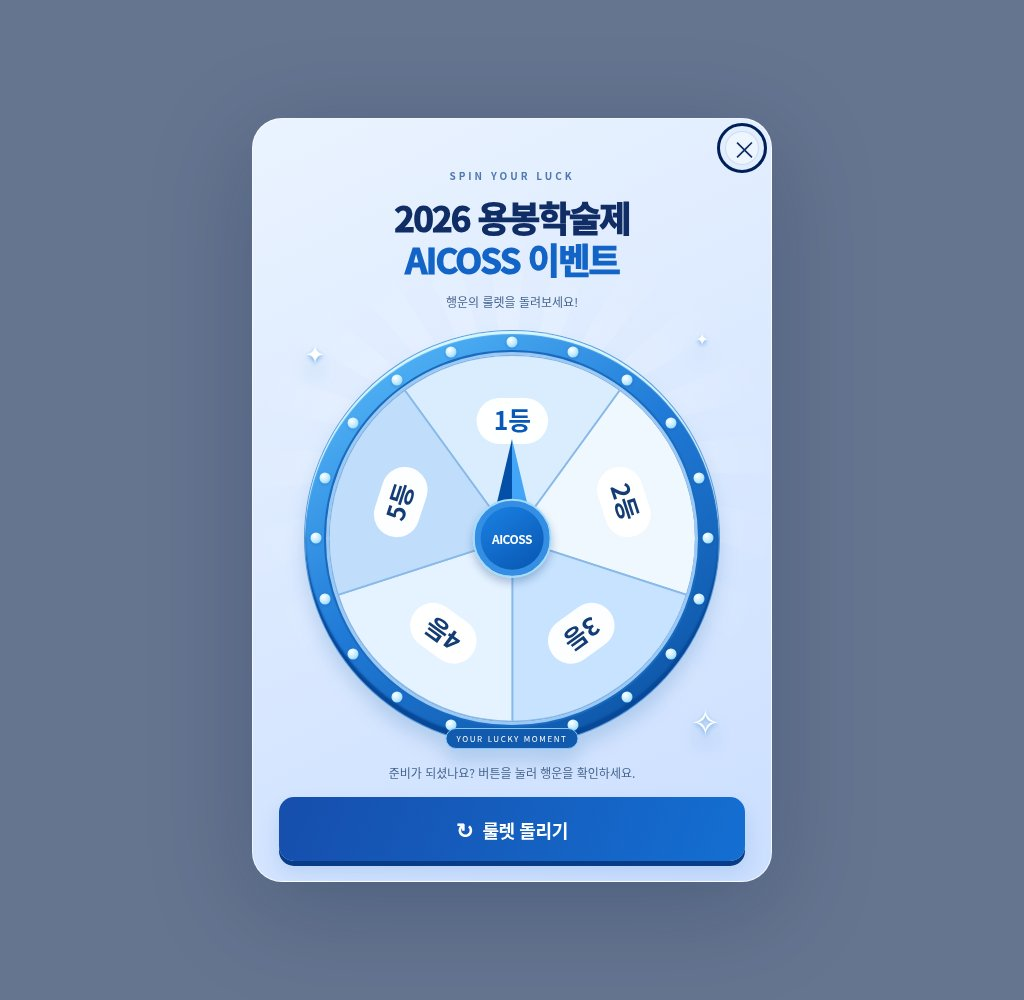
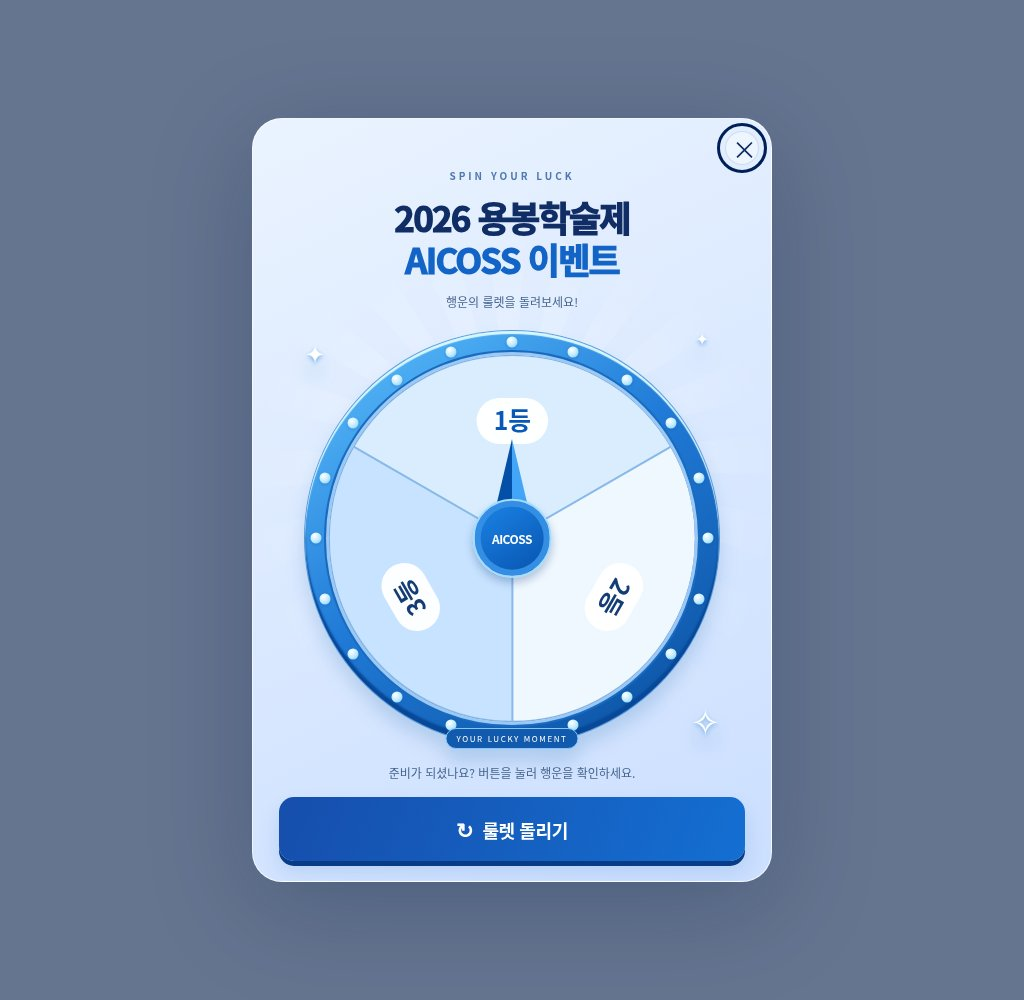
Reduce roulette to three ranks with 5, 10 and 85 percent probabilities

Changed region(s): [[0.3125, 0.372, 0.6875, 0.744], [0.625, 0.434, 0.6562, 0.465]]

diff --git a/prize-draw/prize-draw.html b/prize-draw/prize-draw.html
@@ -7,7 +7,7 @@ html,body{height:100%;width:100%;overflow:hidden}.backdrop{height:100vh;height:1
 @media(max-width:420px){.card{padding:14px 16px 17px}.heading{margin:22px 0 4px}.heading h1{font-size:clamp(23px,7.2vw,28px);margin:8px 0}.eyebrow{font-size:9px;letter-spacing:2.3px}.wheel-stage{margin-top:14px;margin-bottom:13px}.status{font-size:11px;margin:6px 0 10px}.spin{padding:13px;font-size:16px}.odds{font-size:9px;margin-top:12px}.result{padding:12px 10px 10px;margin-top:12px}.rank{font-size:25px}.prize{font-size:14px}.receipt{margin-top:6px;font-size:9px}.done{margin-top:6px}.badge{font-size:7px}}
 @media(max-height:500px) and (min-width:540px){.card{width:min(100%,850px);display:grid;grid-template-columns:minmax(180px,.95fr) 1fr;gap:7px 18px;padding:16px 25px}.top{display:block}.heading{grid-column:2;margin:9px 0 0}.heading .eyebrow{display:none}.heading h1{font-size:23px;margin:0 0 4px}.intro{font-size:10px}.wheel-stage{grid-column:1;grid-row:1 / span 5;width:min(100%,calc(100dvh - 58px));margin:auto}.status{grid-column:2;margin:0;font-size:10px}.spin{grid-column:2;padding:10px;font-size:14px}.result{grid-column:2;padding:8px;margin:0}.rank{font-size:22px}.prize{font-size:12px}.receipt{font-size:8px;margin-top:3px}.done{font-size:10px;margin-top:3px}.odds{grid-column:2;margin:0;font-size:9px}}
 .retry{display:block;margin:0 auto 12px;padding:10px 20px;border:1px solid #7ba5d9;border-radius:10px;background:#ffffffb0;color:#164a8c;font-weight:700}.retry[hidden]{display:none}</style></head><body>
-<div class="backdrop"><main class="card" role="dialog" aria-modal="true" aria-labelledby="title"><div class="rays"></div><header class="top"><button class="close" aria-label="팝업 닫기">×</button></header><div class="heading"><span class="eyebrow">SPIN YOUR LUCK</span><h1 id="title"><span>2026 용봉학술제</span> <span style="display:block">AICOSS 이벤트</span></h1><p class="intro">행운의 룰렛을 돌려보세요!</p></div><div class="wheel-stage"><span class="star a" aria-hidden="true">✦</span><span class="star b" aria-hidden="true">✧</span><span class="star c" aria-hidden="true">✦</span><div class="rim"><div class="wheel-inner"><svg id="wheel" class="rotor" viewBox="0 0 400 400" role="img" aria-label="1등, 2등, 3등, 4등, 5등으로 동일하게 5분할된 원형 룰렛"></svg></div></div><div class="bulbs" aria-hidden="true"></div><div class="needle" aria-hidden="true"></div><div class="hub" aria-hidden="true">AICOSS</div><div class="badge" aria-hidden="true">YOUR LUCKY MOMENT</div></div><div class="status" id="statusText" role="status" aria-live="polite">이벤트 정보를 확인하고 있어요…</div><button id="retryButton" class="retry" hidden>다시 확인</button><button id="spinButton" class="spin" disabled><span class="icon" aria-hidden="true">↻</span><span id="buttonText">준비 중…</span></button><section id="result" class="result" hidden aria-live="polite"><div class="caption" id="resultCaption">나의 당첨 등수는</div><div id="rank" class="rank"></div><div id="prize" class="prize"></div><button class="done">확인했어요</button></section><canvas class="confetti" aria-hidden="true"></canvas></main></div>
+<div class="backdrop"><main class="card" role="dialog" aria-modal="true" aria-labelledby="title"><div class="rays"></div><header class="top"><button class="close" aria-label="팝업 닫기">×</button></header><div class="heading"><span class="eyebrow">SPIN YOUR LUCK</span><h1 id="title"><span>2026 용봉학술제</span> <span style="display:block">AICOSS 이벤트</span></h1><p class="intro">행운의 룰렛을 돌려보세요!</p></div><div class="wheel-stage"><span class="star a" aria-hidden="true">✦</span><span class="star b" aria-hidden="true">✧</span><span class="star c" aria-hidden="true">✦</span><div class="rim"><div class="wheel-inner"><svg id="wheel" class="rotor" viewBox="0 0 400 400" role="img" aria-label="1등, 2등, 3등으로 동일하게 3분할된 원형 룰렛"></svg></div></div><div class="bulbs" aria-hidden="true"></div><div class="needle" aria-hidden="true"></div><div class="hub" aria-hidden="true">AICOSS</div><div class="badge" aria-hidden="true">YOUR LUCKY MOMENT</div></div><div class="status" id="statusText" role="status" aria-live="polite">이벤트 정보를 확인하고 있어요…</div><button id="retryButton" class="retry" hidden>다시 확인</button><button id="spinButton" class="spin" disabled><span class="icon" aria-hidden="true">↻</span><span id="buttonText">준비 중…</span></button><section id="result" class="result" hidden aria-live="polite"><div class="caption" id="resultCaption">나의 당첨 등수는</div><div id="rank" class="rank"></div><div id="prize" class="prize"></div><button class="done">확인했어요</button></section><canvas class="confetti" aria-hidden="true"></canvas></main></div>
 <script>
 (function(){'use strict';
 var wheel=document.getElementById('wheel'),button=document.getElementById('spinButton'),buttonText=document.getElementById('buttonText'),card=document.querySelector('.card'),status=document.getElementById('statusText');
@@ -19,20 +19,20 @@ Array.from(card.children).forEach(function(el){if(el===stage||el.hidden)return;v
 var ss=getComputedStyle(stage);remaining-=(parseFloat(ss.marginTop)||0)+(parseFloat(ss.marginBottom)||0);var width=card.clientWidth-parseFloat(cs.paddingLeft)-parseFloat(cs.paddingRight);
 stage.style.width=Math.max(132,Math.min(414,width,remaining))+'px';}
 window.addEventListener('resize',fitLayout);if(window.visualViewport)window.visualViewport.addEventListener('resize',fitLayout);requestAnimationFrame(fitLayout);
-var ns='http://www.w3.org/2000/svg',fills=['#d9edff','#eff7ff','#c7e3ff','#e5f2ff','#c0ddfb'];
+var ns='http://www.w3.org/2000/svg',fills=['#d9edff','#eff7ff','#c7e3ff'];
 function svg(tag,attrs,parent){var el=document.createElementNS(ns,tag);Object.keys(attrs).forEach(function(k){el.setAttribute(k,attrs[k]);});(parent||wheel).appendChild(el);return el;}
 function point(deg,r){var a=deg*Math.PI/180;return [200+Math.cos(a)*r,200+Math.sin(a)*r];}
-for(var i=0;i<5;i++){var a=-126+i*72,b=a+72,p=point(a,200),q=point(b,200);svg('path',{d:'M200 200 L'+p[0]+' '+p[1]+' A200 200 0 0 1 '+q[0]+' '+q[1]+' Z',fill:fills[i],stroke:'#89b9e9','stroke-width':2,'data-rank':i+1});var center=-90+i*72,pos=point(center,128),g=svg('g',{transform:'translate('+pos[0]+','+pos[1]+') rotate('+(center+90)+')'});svg('rect',{x:-39,y:-25,width:78,height:50,rx:25,fill:'#fff','fill-opacity':.97},g);var text=svg('text',{x:0,y:2,'text-anchor':'middle','dominant-baseline':'middle','font-size':27,'font-weight':900,fill:i===0?'#0758b9':'#143d76','font-family':'sans-serif'},g);text.textContent=(i+1)+'등';}
+for(var i=0;i<3;i++){var a=-150+i*120,b=a+120,p=point(a,200),q=point(b,200);svg('path',{d:'M200 200 L'+p[0]+' '+p[1]+' A200 200 0 0 1 '+q[0]+' '+q[1]+' Z',fill:fills[i],stroke:'#89b9e9','stroke-width':2,'data-rank':i+1});var center=-90+i*120,pos=point(center,128),g=svg('g',{transform:'translate('+pos[0]+','+pos[1]+') rotate('+(center+90)+')'});svg('rect',{x:-39,y:-25,width:78,height:50,rx:25,fill:'#fff','fill-opacity':.97},g);var text=svg('text',{x:0,y:2,'text-anchor':'middle','dominant-baseline':'middle','font-size':27,'font-weight':900,fill:i===0?'#0758b9':'#143d76','font-family':'sans-serif'},g);text.textContent=(i+1)+'등';}
 for(var j=0;j<20;j++){var angle=j*18*Math.PI/180,bulb=document.createElement('i');bulb.className='bulb';bulb.style.left=(50+47.4*Math.sin(angle))+'%';bulb.style.top=(50-47.4*Math.cos(angle))+'%';document.querySelector('.bulbs').appendChild(bulb);}
 function send(type){window.parent.postMessage({type:type},'*');}
 function close(){clearTimeout(timer);clearTimeout(fallback);cancelAnimationFrame(confettiFrame);state='closed';send('close');if(window.parent===window)document.querySelector('.backdrop').hidden=true;}
 document.querySelector('.close').onclick=close;document.querySelector('.done').onclick=close;document.querySelector('.close').focus();
 document.addEventListener('keydown',function(e){if(e.key==='Escape')close();if(e.key==='Tab'){var controls=[document.querySelector('.close')];if(!button.disabled&&button.offsetParent)controls.push(button);if(!document.getElementById('retryButton').hidden)controls.push(document.getElementById('retryButton'));if(!document.getElementById('result').hidden)controls.push(document.querySelector('.done'));var first=controls[0],last=controls[controls.length-1];if(e.shiftKey&&document.activeElement===first){e.preventDefault();last.focus();}else if(!e.shiftKey&&document.activeElement===last){e.preventDefault();first.focus();}}});
-function applyRanks(d){if(!Array.isArray(d.ranks)||d.ranks.length!==5||!d.ranks.every(function(r){return r&&typeof r.name==='string';}))return;var texts=wheel.querySelectorAll('text');d.ranks.forEach(function(r,i){texts[i].textContent=r.name;});wheel.setAttribute('aria-label',d.ranks.map(function(r){return r.name;}).join(', ')+' 5분할 룰렛');}
+function applyRanks(d){if(!Array.isArray(d.ranks)||d.ranks.length!==3||!d.ranks.every(function(r){return r&&typeof r.name==='string';}))return;var texts=wheel.querySelectorAll('text');d.ranks.forEach(function(r,i){texts[i].textContent=r.name;});wheel.setAttribute('aria-label',d.ranks.map(function(r){return r.name;}).join(', ')+' 3분할 룰렛');}
 function notice(message){if(state==='closed'||state==='done')return;clearTimeout(timer);clearTimeout(fallback);state='error';card.classList.add('error');status.textContent=message;button.disabled=true;document.getElementById('retryButton').hidden=false;fitLayout();}
 function celebrate(){if(reduced)return;var canvas=document.querySelector('.confetti'),ctx=canvas.getContext('2d'),w=card.clientWidth,h=card.clientHeight,dpr=Math.min(devicePixelRatio||1,2);canvas.width=w*dpr;canvas.height=h*dpr;ctx.scale(dpr,dpr);var colors=['#1672d6','#71c5ff','#fff','#acdfff','#f8d56c'];var bits=Array.from({length:90},function(_,i){return{x:Math.random()*w,y:-20-Math.random()*h*.7,vx:(Math.random()-.5)*1.8,vy:2+Math.random()*3,size:4+Math.random()*5,a:Math.random()*6,c:colors[i%colors.length]};});var start=performance.now(),last=start;function paint(t){if(state==='closed')return;var dt=Math.min(2,(t-last)/16.67);last=t;ctx.clearRect(0,0,w,h);bits.forEach(function(b){b.x+=b.vx*dt;b.y+=b.vy*dt;b.a+=.045*dt;ctx.save();ctx.translate(b.x,b.y);ctx.rotate(b.a);ctx.fillStyle=b.c;ctx.fillRect(-b.size/2,-b.size/2,b.size,b.size*.55);ctx.restore();});if(t-start<4300)confettiFrame=requestAnimationFrame(paint);else ctx.clearRect(0,0,w,h);}confettiFrame=requestAnimationFrame(paint);}
 function complete(d){if(state==='closed')return;clearTimeout(fallback);state='done';card.classList.add('complete');document.getElementById('resultCaption').textContent='나의 당첨 등수는';document.getElementById('rank').textContent=d.rank+' 당첨!';document.getElementById('prize').textContent=d.prize+(d.preview?' · 미리보기':'');document.getElementById('result').hidden=false;fitLayout();status.textContent='축하합니다! 행운의 주인공이 되었어요.';buttonText.textContent='당첨 결과 확인 완료';celebrate();}
-function showResult(d){if(resultData||state==='closed'||state==='error')return;var index=Number(d.ball)-1;if(!Number.isInteger(index)||index<0||index>4){notice('당첨 결과를 확인할 수 없습니다. 창을 닫고 다시 확인해주세요.');return;}if(!requested)return;applyRanks(d);resultData=d;clearTimeout(fallback);var target=(360-index*72)%360;if(reduced){wheel.style.transition='none';wheel.style.transform='rotate('+target+'deg)';complete(d);return;}state='spinning';status.textContent='행운의 룰렛이 돌아갑니다…';buttonText.textContent='두근두근, 룰렛 회전 중';wheel.style.transition='transform 3000ms cubic-bezier(.16,.8,.18,1)';wheel.style.transform='rotate('+(1800+target)+'deg)';function stop(e){if(e&&e.target!==wheel)return;wheel.removeEventListener('transitionend',stop);if(state==='spinning'){clearTimeout(timer);complete(d);}}wheel.addEventListener('transitionend',stop);timer=setTimeout(function(){stop();},3100);}
+function showResult(d){if(resultData||state==='closed'||state==='error')return;var index=Number(d.ball)-1;if(!Number.isInteger(index)||index<0||index>2){notice('당첨 결과를 확인할 수 없습니다. 창을 닫고 다시 확인해주세요.');return;}if(!requested)return;applyRanks(d);resultData=d;clearTimeout(fallback);var target=(360-index*120)%360;if(reduced){wheel.style.transition='none';wheel.style.transform='rotate('+target+'deg)';complete(d);return;}state='spinning';status.textContent='행운의 룰렛이 돌아갑니다…';buttonText.textContent='두근두근, 룰렛 회전 중';wheel.style.transition='transform 3000ms cubic-bezier(.16,.8,.18,1)';wheel.style.transform='rotate('+(1800+target)+'deg)';function stop(e){if(e&&e.target!==wheel)return;wheel.removeEventListener('transitionend',stop);if(state==='spinning'){clearTimeout(timer);complete(d);}}wheel.addEventListener('transitionend',stop);timer=setTimeout(function(){stop();},3100);}
 button.onclick=function(){if(state!=='idle'||requested)return;requested=true;state='waiting';button.disabled=true;buttonText.textContent='추첨 결과 확인 중…';status.textContent='잠시만 기다려주세요.';send('spin');fallback=setTimeout(function(){notice('결과 확인이 지연되고 있어요. 창을 닫고 오브젝트에서 다시 확인해주세요.');},25000);if(window.parent===window&&new URLSearchParams(location.search).get('preview')==='1'){setTimeout(function(){window.postMessage({type:'result',rank:'2등',ball:'2',prize:'2등 경품',preview:true},'*');},120);}};
 document.getElementById('retryButton').onclick=function(){clearTimeout(timer);clearTimeout(fallback);requested=false;resultData=null;state='loading';card.classList.remove('error','complete');document.getElementById('result').hidden=true;this.hidden=true;status.textContent='다시 확인하고 있어요…';button.disabled=true;buttonText.textContent='준비 중…';send('retry');fitLayout();fallback=setTimeout(function(){notice('응답을 확인하지 못했습니다. 다시 확인하거나 팝업을 다시 열어주세요.');},15000);};
 window.addEventListener('message',function(e){if(e.source!==window.parent||state==='closed')return;var d=e.data;if(!d||typeof d!=='object')return;if(d.type==='notice'){received=true;notice(String(d.message||'잠시 후 다시 시도해주세요.'));return;}if(d.type==='loading'){received=true;return;}if(d.type==='idle'){received=true;applyRanks(d);if(!requested&&!resultData){clearTimeout(fallback);document.getElementById('retryButton').hidden=true;card.classList.remove('error');state='idle';status.textContent='준비가 되셨나요? 버튼을 눌러 행운을 확인하세요.';buttonText.textContent='룰렛 돌리기';button.disabled=false;fitLayout();}return;}if(d.type==='mixing'){received=true;requested=true;return;}if(d.type==='result'&&typeof d.rank==='string'&&typeof d.prize==='string'){received=true;showResult(d);}});

diff --git a/prize-draw/main.js b/prize-draw/main.js
@@ -7,13 +7,11 @@ var PRIZE_CONFIG = {
     objectValue: "prize_draw",
     objectKey: "prize_draw",
     objectPosition: null,
-    prizeNames: { rank1: "1등 경품", rank2: "2등 경품", rank3: "3등 경품", rank4: "4등 경품", rank5: "5등 경품" },
+    prizeNames: { rank1: "1등 경품", rank2: "2등 경품", rank3: "3등 경품" },
     ranks: [
         { id: "rank1", name: "1등", probability: 5 },
         { id: "rank2", name: "2등", probability: 10 },
-        { id: "rank3", name: "3등", probability: 15 },
-        { id: "rank4", name: "4등", probability: 20 },
-        { id: "rank5", name: "5등", probability: 50 }
+        { id: "rank3", name: "3등", probability: 85 }
     ]
 };
 
@@ -50,7 +48,7 @@ var PRIZE_CONFIG = {
             var pos = C.objectPosition;
             if (!pos || [3, 5].indexOf(pos.layer) < 0 || !Number.isInteger(pos.x) || pos.x < 0 || !Number.isInteger(pos.y) || pos.y < 0) throw Error("오브젝트 좌표를 확인해주세요.");
         }
-        if (!Array.isArray(C.ranks) || C.ranks.length !== 5) throw Error("등수는 5개로 설정해주세요.");
+        if (!Array.isArray(C.ranks) || C.ranks.length !== 3) throw Error("등수는 3개로 설정해주세요.");
         var ids = Object.create(null), total = 0;
         var ranks = C.ranks.map(function (r, i) {
             if (!r || typeof r.id !== "string" || !r.id || ids[r.id] || typeof r.name !== "string" || !r.name ||

diff --git a/prize-draw/README.md b/prize-draw/README.md
@@ -13,7 +13,7 @@
 
 새 버전에서는 **시그니처 비교와 원장 읽기를 모두 제거**했습니다. 각 버튼 요청에서 현재의 등수·확률·경품명을 복사해 검증하고 그 값으로 추첨합니다. 확률, 등수 id/이름, 경품명을 바꿔도 기존 설정/기록과 비교하지 않습니다. 팝업을 연 후 설정을 바꿔도 버튼을 누르는 시점의 설정으로 추첨하며, 룰렛의 칸 이름도 실제 결과와 함께 갱신합니다.
 
-확률은 0~100의 유한한 숫자이고 합계가 100이어야 하며 룰렛은 5개 등수를 사용합니다. 잘못된 설정은 해당 요청에만 안내합니다. 유효한 설정으로 수정하면 다음 요청이나 팝업의 **다시 확인**으로 이용할 수 있고, 스토리지 초기화나 오류 해제를 위한 앱 재시작은 필요 없습니다. 배포 파일의 설정을 바꿀 때는 기존처럼 수정한 ZIP을 앱에 업데이트해야 합니다.
+확률은 0~100의 유한한 숫자이고 합계가 100이어야 하며 룰렛은 3개 등수를 사용합니다. 잘못된 설정은 해당 요청에만 안내합니다. 유효한 설정으로 수정하면 다음 요청이나 팝업의 **다시 확인**으로 이용할 수 있고, 스토리지 초기화나 오류 해제를 위한 앱 재시작은 필요 없습니다. 배포 파일의 설정을 바꿀 때는 기존처럼 수정한 ZIP을 앱에 업데이트해야 합니다.
 
 ### 2. 저장 지연/재조회 불일치 한 번에 전체 행사 중지
 
@@ -31,11 +31,9 @@
 |---|---:|
 | 1등 | 5% |
 | 2등 | 10% |
-| 3등 | 15% |
-| 4등 | 20% |
-| 5등 | 50% |
+| 3등 | 85% |
 
-재고·총수량·일일 한도는 없습니다. 팝업 확률 고지 문구는 표시하지 않으며 실제 확률만 위 설정으로 적용합니다. 룰렛의 5칸은 같은 크기의 디자인이고 면적이 실제 확률을 뜻하지 않습니다. 유한한 추첨 횟수의 실제 발생 비율은 설정값과 다를 수 있습니다.
+재고·총수량·일일 한도는 없습니다. 팝업 확률 고지 문구는 표시하지 않으며 실제 확률만 위 설정으로 적용합니다. 룰렛의 3칸은 같은 크기의 디자인이고 면적이 실제 확률을 뜻하지 않습니다. 유한한 추첨 횟수의 실제 발생 비율은 설정값과 다를 수 있습니다.
 
 **로그인/비로그인 모두 참여 가능하며 반복 참여 제한이 없습니다.** 한 팝업에서는 중복 클릭을 막고 한 번만 추첨합니다. 닫고 다시 오브젝트를 이용하면 새 추첨이 가능합니다. 이메일 해시·게스트 방문 식별값·당첨번호·당첨시각·통계를 저장하거나 복원하지 않습니다. 현장 확인 후 경품 지급 여부는 운영자가 직접 관리해야 합니다.
 
@@ -58,7 +56,7 @@
    | Value | `prize_draw` |
 
    기본 `interactionMode: "editor"`, `objectNumber`, `objectValue`와 일치시킵니다. 이 방식은 오브젝트 접촉 이벤트를 사용합니다.
-5. 실제 경품명을 `prizeNames`에서 설정합니다. 확률/등수는 `ranks`에서 수정합니다. 5개 등수, 확률 합계 100을 유지하세요.
+5. 실제 경품명을 `prizeNames`에서 설정합니다. 확률/등수는 `ranks`에서 수정합니다. 3개 등수, 확률 합계 100을 유지하세요.
 6. **`main.js`와 `prize-draw.html` 두 파일만 ZIP 최상위**에 넣어 같은 앱을 업데이트합니다. CSV용 `prize-export.html`은 더 이상 필요 없습니다.
 7. 실제 ZEP 맵에서 입장 → 자동 팝업 → 버튼 → 약 3초 회전 → 등수/경품명과 콘페티, 다시 확인과 관리자 명령을 확인하세요.
 
@@ -87,7 +85,7 @@ python3 -c 'from zipfile import ZipFile; z=ZipFile("upload.zip","w"); z.write("m
 
 ## 모바일·화면
 
-2026 용봉학술제 AICOSS 이벤트 타이틀과 푸른색 방사형 배경, 5분할 입체 룰렛을 유지합니다. 상단 AICOSS LUCKY ROULETTE, 기존 안내 문구, 확률 고지는 표시하지 않습니다. 현재 버전에서는 당첨번호/날짜 표시도 제거했습니다.
+2026 용봉학술제 AICOSS 이벤트 타이틀과 푸른색 방사형 배경, 3분할 입체 룰렛을 유지합니다. 상단 AICOSS LUCKY ROULETTE, 기존 안내 문구, 확률 고지는 표시하지 않습니다. 현재 버전에서는 당첨번호/날짜 표시도 제거했습니다.
 
 작은 세로 화면은 실제 남은 공간에 맞춰 룰렛 크기를 조정하고 가로 화면은 2열로 배치합니다. 320×568부터 태블릿·가로 화면까지 검증합니다. 오류 안내에는 **다시 확인** 버튼을 표시합니다. 설정이 바로잡히거나 수동 중지가 풀리면 재시도할 수 있습니다. 기기의 모션 감소 설정에서는 긴 회전을 생략합니다.
 
